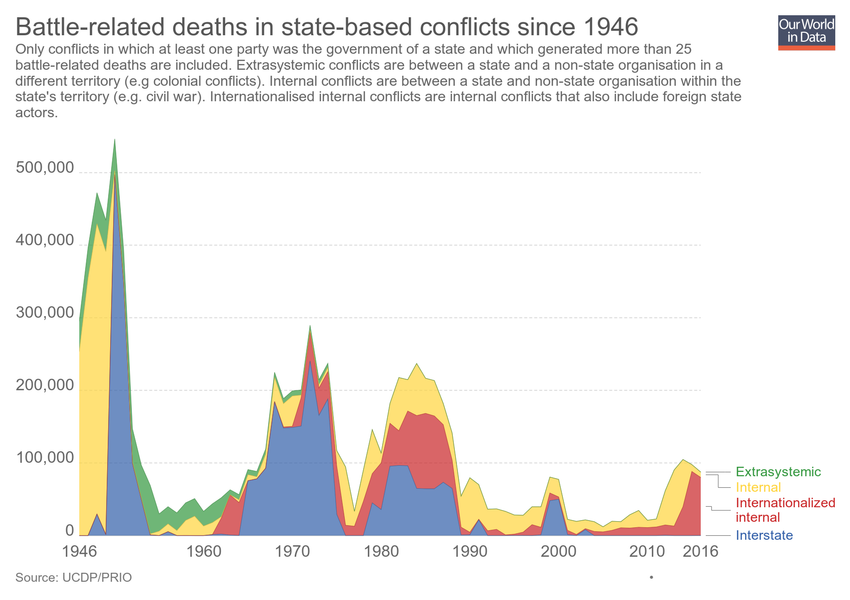
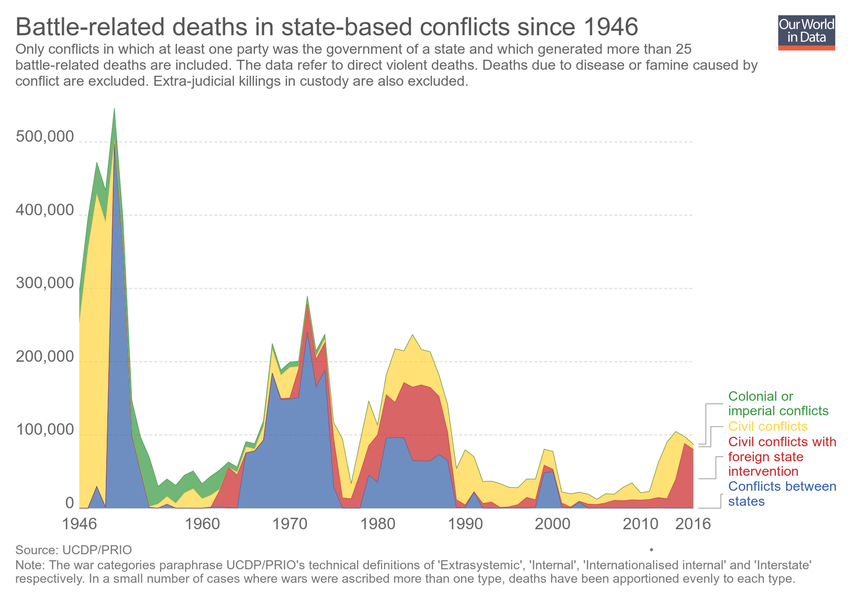
Updating chart battle-related-deaths-in-state-based-conflicts-since-1946

diff --git a/grapher/battle-related-deaths-in-state-based-conflicts-since-1946.html b/grapher/battle-related-deaths-in-state-based-conflicts-since-1946.html
@@ -1,4 +1,4 @@
-<!doctype html><html><head><meta name="viewport" content="width=device-width, initial-scale=1" /><title>Battle-related deaths in state-based conflicts since 1946 - Our World in Data</title><meta name="description" content="Only conflicts in which at least one party was the government of a state and which generated more than 25 battle-related deaths are included. Extrasystemic conflicts are between a state and a non-state organisation in a different territory (e.g colonial conflicts). Internal conflicts are between a state and non-state organisation within the state's territory (e.g. civil war). Internationalised internal conflicts are internal conflicts that also include foreign state actors." /><link rel="canonical" href="https://ourworldindata.org/grapher/battle-related-deaths-in-state-based-conflicts-since-1946" /><meta property="fb:app_id" content="1149943818390250" /><meta property="og:url" content="https://ourworldindata.org/grapher/battle-related-deaths-in-state-based-conflicts-since-1946" /><meta property="og:title" content="Battle-related deaths in state-based conflicts since 1946" /><meta property="og:description" content="Only conflicts in which at least one party was the government of a state and which generated more than 25 battle-related deaths are included. Extrasystemic conflicts are between a state and a non-state organisation in a different territory (e.g colonial conflicts). Internal conflicts are between a state and non-state organisation within the state's territory (e.g. civil war). Internationalised internal conflicts are internal conflicts that also include foreign state actors." /><meta property="og:image" content="https://ourworldindata.org/grapher/exports/battle-related-deaths-in-state-based-conflicts-since-1946.png?v=1" /><meta property="og:image:width" content="850" /><meta property="og:image:height" content="600" /><meta property="og:site_name" content="Our World in Data" /><meta name="twitter:card" content="summary_large_image" /><meta name="twitter:site" content="@OurWorldInData" /><meta name="twitter:creator" content="@OurWorldInData" /><meta name="twitter:title" content="Battle-related deaths in state-based conflicts since 1946" /><meta name="twitter:description" content="Only conflicts in which at least one party was the government of a state and which generated more than 25 battle-related deaths are included. Extrasystemic conflicts are between a state and a non-state organisation in a different territory (e.g colonial conflicts). Internal conflicts are between a state and non-state organisation within the state's territory (e.g. civil war). Internationalised internal conflicts are internal conflicts that also include foreign state actors." /><meta name="twitter:image" content="https://ourworldindata.org/grapher/exports/battle-related-deaths-in-state-based-conflicts-since-1946.png?v=1" /><style>
+<!doctype html><html><head><meta name="viewport" content="width=device-width, initial-scale=1" /><title>Battle-related deaths in state-based conflicts since 1946 - Our World in Data</title><meta name="description" content="Only conflicts in which at least one party was the government of a state and which generated more than 25 battle-related deaths are included. The data refer to direct violent deaths. Deaths due to disease or famine caused by conflict are excluded. Extra-judicial killings in custody are also excluded." /><link rel="canonical" href="https://ourworldindata.org/grapher/battle-related-deaths-in-state-based-conflicts-since-1946" /><meta property="fb:app_id" content="1149943818390250" /><meta property="og:url" content="https://ourworldindata.org/grapher/battle-related-deaths-in-state-based-conflicts-since-1946" /><meta property="og:title" content="Battle-related deaths in state-based conflicts since 1946" /><meta property="og:description" content="Only conflicts in which at least one party was the government of a state and which generated more than 25 battle-related deaths are included. The data refer to direct violent deaths. Deaths due to disease or famine caused by conflict are excluded. Extra-judicial killings in custody are also excluded." /><meta property="og:image" content="https://ourworldindata.org/grapher/exports/battle-related-deaths-in-state-based-conflicts-since-1946.png?v=2" /><meta property="og:image:width" content="850" /><meta property="og:image:height" content="600" /><meta property="og:site_name" content="Our World in Data" /><meta name="twitter:card" content="summary_large_image" /><meta name="twitter:site" content="@OurWorldInData" /><meta name="twitter:creator" content="@OurWorldInData" /><meta name="twitter:title" content="Battle-related deaths in state-based conflicts since 1946" /><meta name="twitter:description" content="Only conflicts in which at least one party was the government of a state and which generated more than 25 battle-related deaths are included. The data refer to direct violent deaths. Deaths due to disease or famine caused by conflict are excluded. Extra-judicial killings in custody are also excluded." /><meta name="twitter:image" content="https://ourworldindata.org/grapher/exports/battle-related-deaths-in-state-based-conflicts-since-1946.png?v=2" /><style>
         html, body {
             height: 100%;
             margin: 0;
@@ -20,8 +20,8 @@
         }
     </style><noscript><style>
                     figure { display: none !important; }
-                </style></noscript><link rel="stylesheet" href="https://ourworldindata.org/grapher/assets/commons.bundle.62f8703dfc964fd3975c.css" /><link rel="preload" href="/grapher/data/variables/97369.json?v=1" as="fetch" crossorigin /></head><body class="singleChart"><figure data-grapher-src="/grapher/battle-related-deaths-in-state-based-conflicts-since-1946"></figure><noscript id="fallback"><img src="/grapher/exports/battle-related-deaths-in-state-based-conflicts-since-1946.svg" /><p>Interactive visualization requires JavaScript</p></noscript><script src="https://cdn.polyfill.io/v2/polyfill.min.js?features=es6,fetch"></script><script src="https://ourworldindata.org/grapher/assets/commons.bundle.62f8703dfc964fd3975c.js"></script><script src="https://ourworldindata.org/grapher/assets/charts.bundle.dcf65b68eddaba4c6a58.js"></script><script>
-        var jsonConfig = {"map":{"projection":"World","colorSchemeLabels":[],"colorSchemeValues":[],"colorSchemeMinValue":0,"customNumericColors":[],"customCategoryColors":{},"customCategoryLabels":{},"customHiddenCategories":{}},"tab":"chart","slug":"battle-related-deaths-in-state-based-conflicts-since-1946","type":"StackedArea","title":"Battle-related deaths in state-based conflicts since 1946","xAxis":{"scaleType":"linear"},"yAxis":{"min":0,"scaleType":"linear"},"version":1,"subtitle":"Only conflicts in which at least one party was the government of a state and which generated more than 25 battle-related deaths are included. Extrasystemic conflicts are between a state and a non-state organisation in a different territory (e.g colonial conflicts). Internal conflicts are between a state and non-state organisation within the state's territory (e.g. civil war). Internationalised internal conflicts are internal conflicts that also include foreign state actors.","hasMapTab":false,"stackMode":"absolute","dimensions":[{"display":{},"property":"y","variableId":97369}],"isAutoSlug":true,"hasChartTab":true,"isPublished":true,"selectedData":[{"index":0,"entityId":37484},{"index":0,"entityId":37486},{"index":0,"entityId":37487},{"index":0,"entityId":37485}],"addCountryMode":"disabled","id":2574};
+                </style></noscript><link rel="stylesheet" href="https://ourworldindata.org/grapher/assets/commons.bundle.62f8703dfc964fd3975c.css" /><link rel="preload" href="/grapher/data/variables/97369.json?v=2" as="fetch" crossorigin /></head><body class="singleChart"><figure data-grapher-src="/grapher/battle-related-deaths-in-state-based-conflicts-since-1946"></figure><noscript id="fallback"><img src="/grapher/exports/battle-related-deaths-in-state-based-conflicts-since-1946.svg" /><p>Interactive visualization requires JavaScript</p></noscript><script src="https://cdn.polyfill.io/v2/polyfill.min.js?features=es6,fetch"></script><script src="https://ourworldindata.org/grapher/assets/commons.bundle.62f8703dfc964fd3975c.js"></script><script src="https://ourworldindata.org/grapher/assets/charts.bundle.dcf65b68eddaba4c6a58.js"></script><script>
+        var jsonConfig = {"id":2574,"map":{"projection":"World","colorSchemeLabels":[],"colorSchemeValues":[],"colorSchemeMinValue":0,"customNumericColors":[],"customCategoryColors":{},"customCategoryLabels":{},"customHiddenCategories":{}},"tab":"chart","note":"The war categories paraphrase UCDP/PRIO's technical definitions of 'Extrasystemic', 'Internal', 'Internationalised internal' and 'Interstate' respectively. In a small number of cases where wars were ascribed more than one type, deaths have been apportioned evenly to each type.","slug":"battle-related-deaths-in-state-based-conflicts-since-1946","type":"StackedArea","title":"Battle-related deaths in state-based conflicts since 1946","xAxis":{"scaleType":"linear"},"yAxis":{"min":0,"scaleType":"linear"},"version":2,"subtitle":"Only conflicts in which at least one party was the government of a state and which generated more than 25 battle-related deaths are included. The data refer to direct violent deaths. Deaths due to disease or famine caused by conflict are excluded. Extra-judicial killings in custody are also excluded.","hasMapTab":false,"stackMode":"absolute","dimensions":[{"display":{},"property":"y","variableId":97369}],"hasChartTab":true,"isPublished":true,"selectedData":[{"index":0,"entityId":37494},{"index":0,"entityId":37492},{"index":0,"entityId":37491},{"index":0,"entityId":37493}],"addCountryMode":"disabled"};
         var figure = document.getElementsByTagName("figure")[0];
         try {
             window.App = {};
